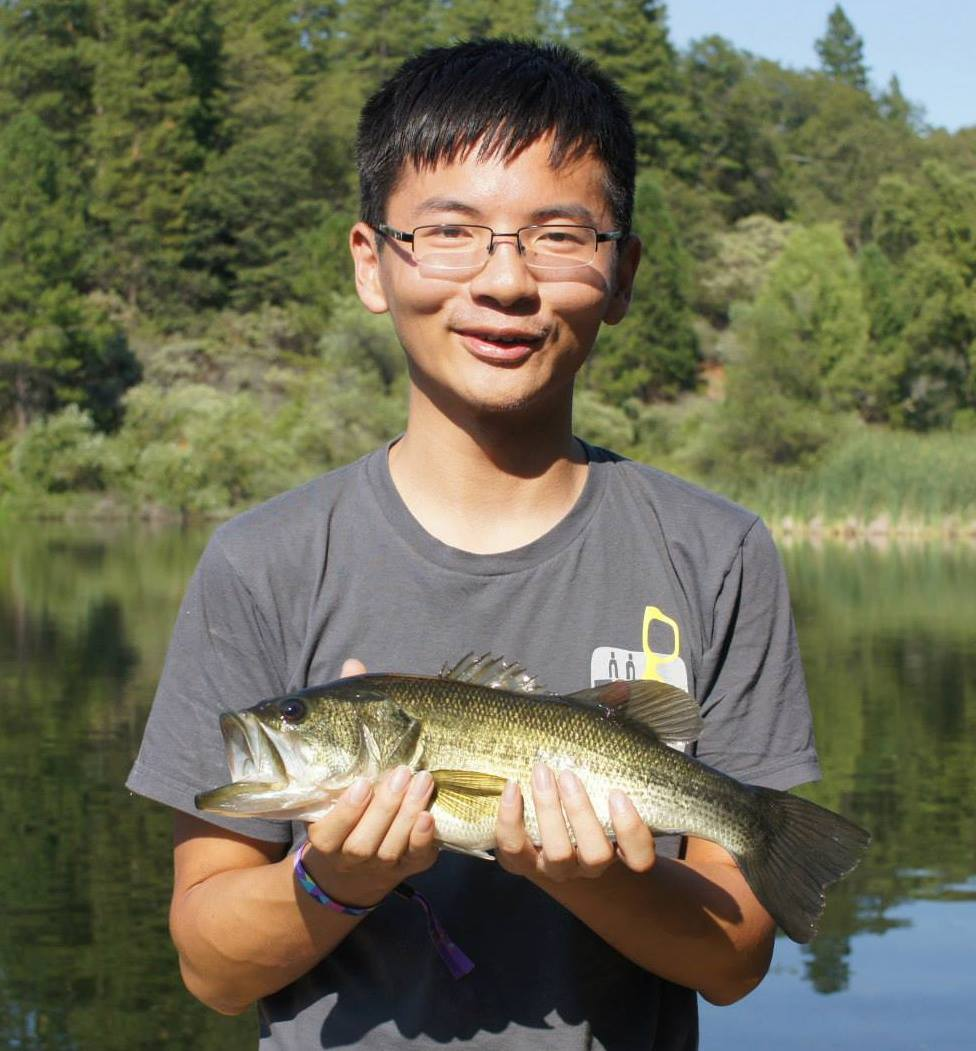
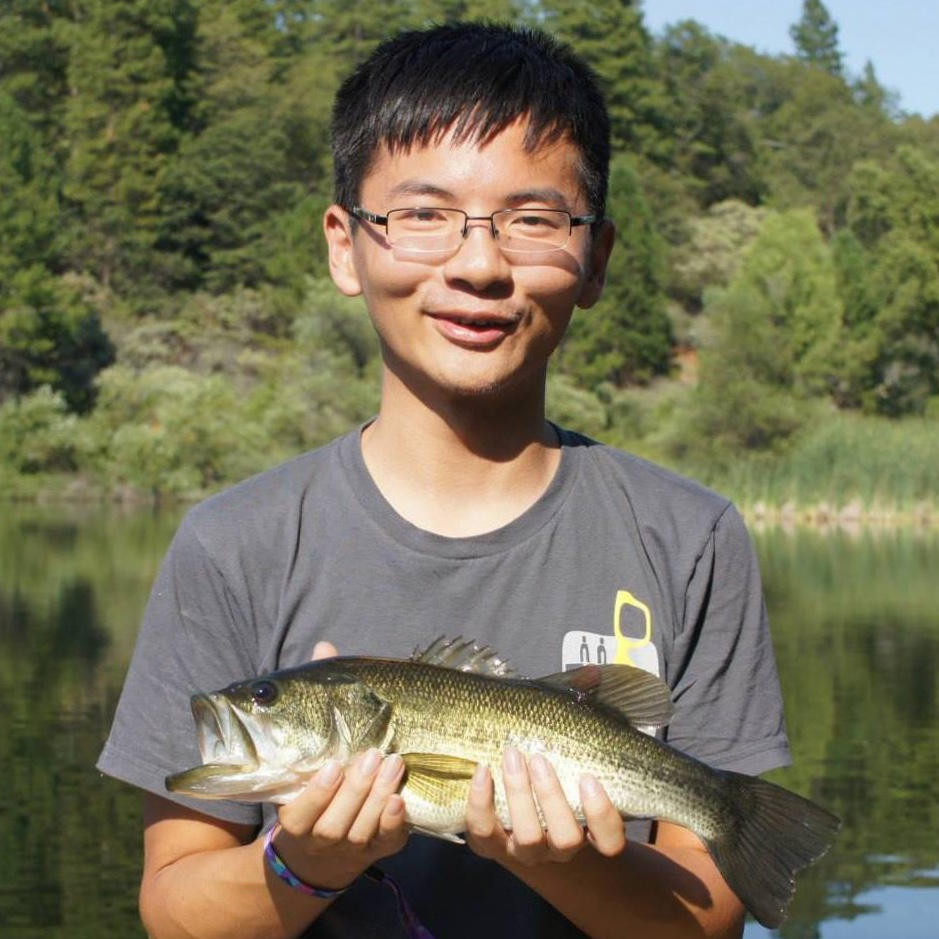
Fix all team images

diff --git a/source/stylesheets/index.scss b/source/stylesheets/index.scss
@@ -22,23 +22,22 @@
   margin: 1em 0;
   list-style-type: none;
 
-  @include media($tablet) {
+  @include media($tablet-only) {
     @include span-columns(6);
     @include omega(2n);
   }
 
-  /* When we have >2 contributors uncomment this
-  * @include media($desktop) {
-  *   @include span-columns(4);
-  *   @include omega(3n);
-  * }
-  */
+  @include media($desktop) {
+    @include span-columns(4);
+    @include omega(3n);
+  }
+
 
   img {
     margin: 0 auto 10px;
     display: block;
-    width: 65%;
-    max-height: 336px;
+    width: 50%;
+    max-height: 329px;
     @include prefixer(border-radius, 50%, webkit moz ms o spec);
   }
 
